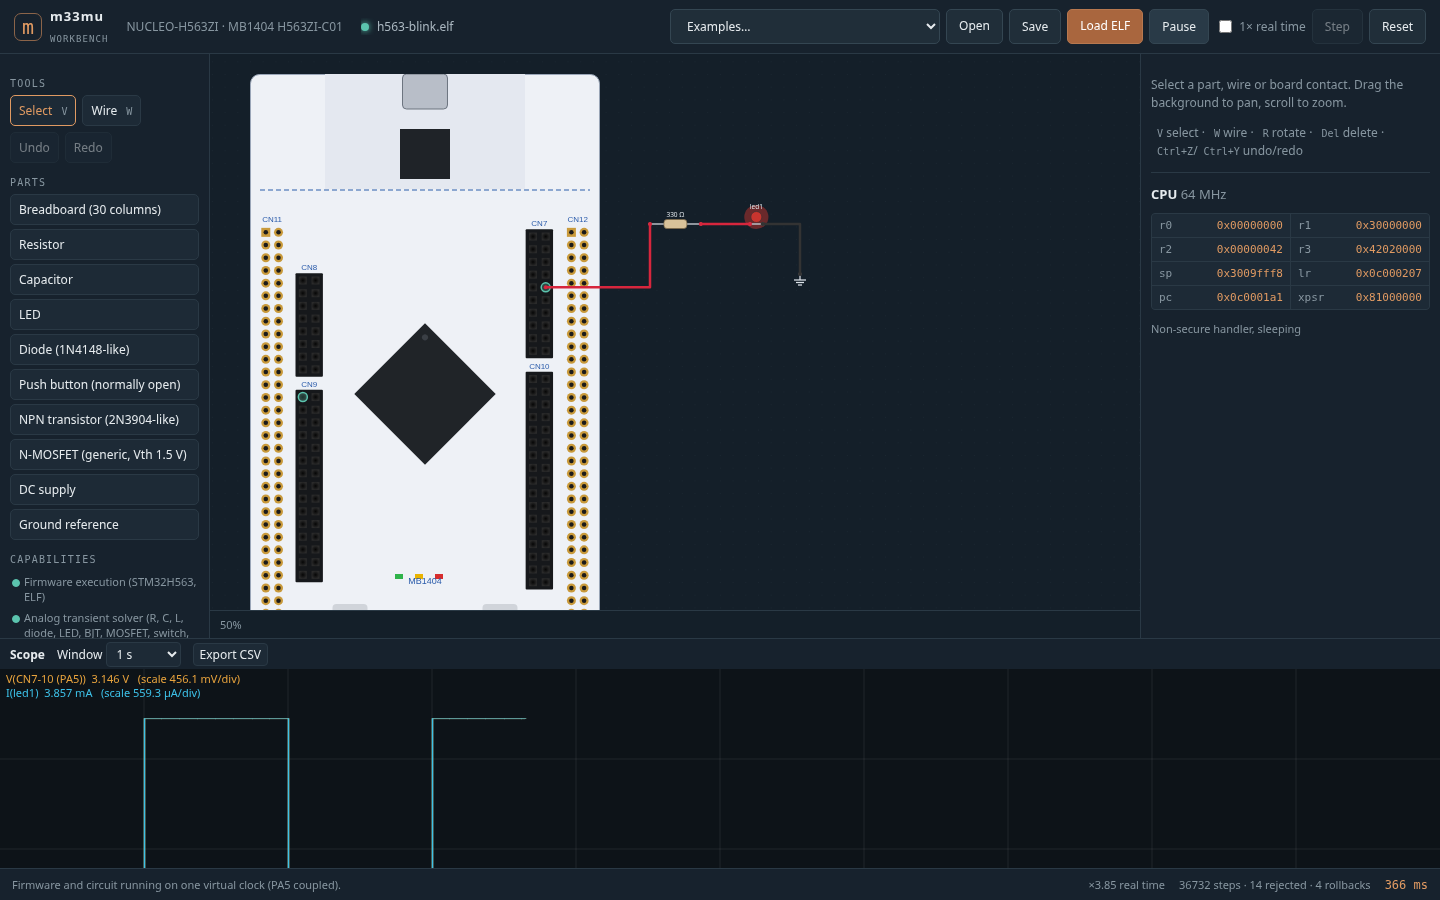
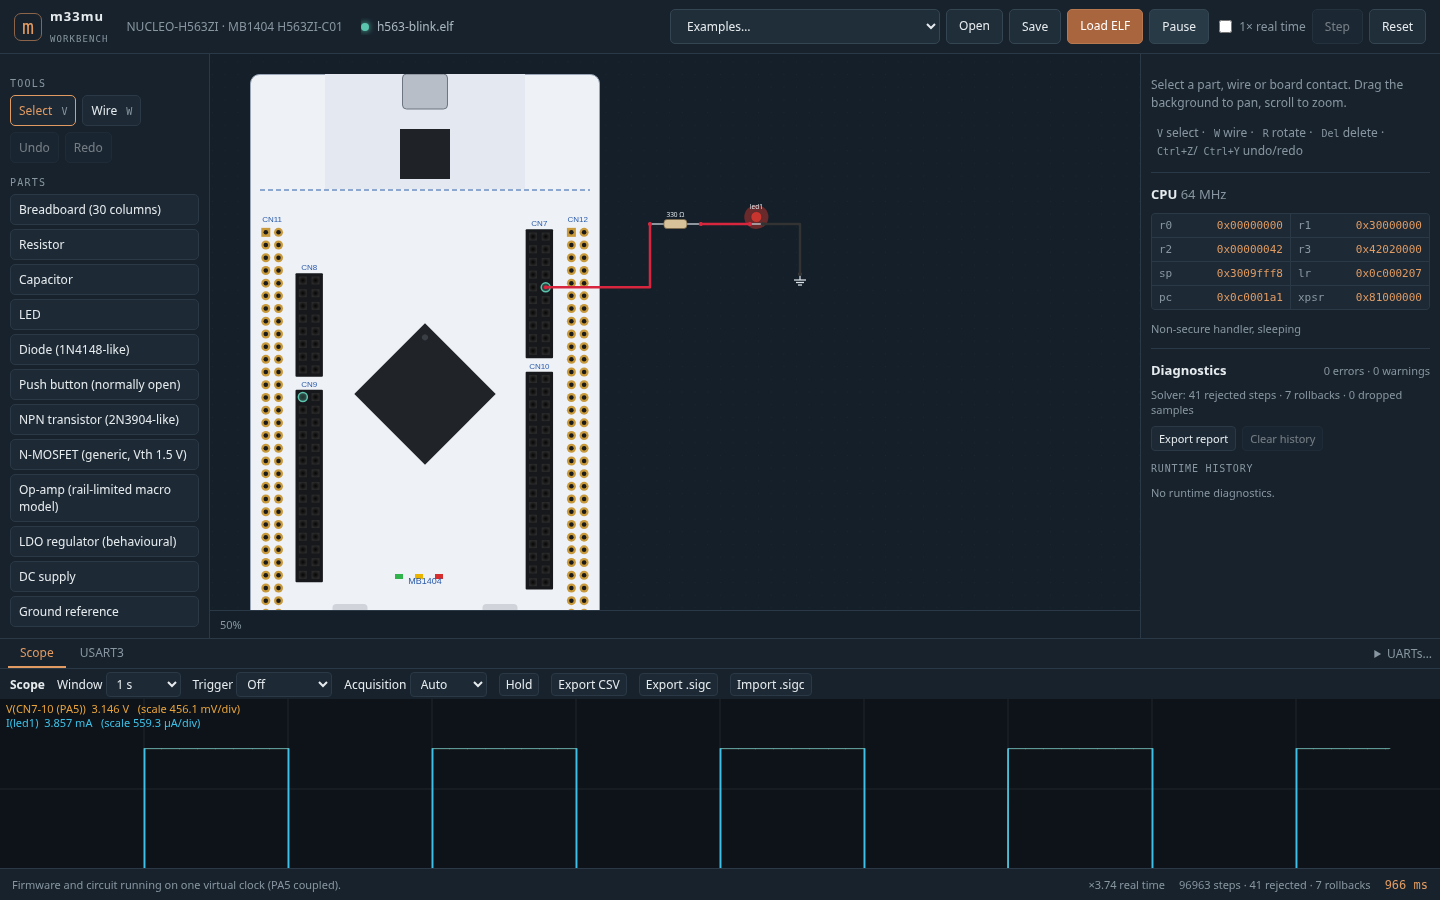
web: UART terminal tabs

diff --git a/src/app.tsx b/src/app.tsx
@@ -4,6 +4,7 @@ import { Inspector, type McuPadInfo, type Observation } from './Inspector.tsx';
 import { DiagnosticsPanel } from './DiagnosticsPanel.tsx';
 import { appendDiagnostic, type DiagnosticEntry, type DiagnosticSeverity, type DiagnosticSource } from './diagnostics.ts';
 import { Scope, ScopeAcquisitionEngine, ScopeBuffer } from './instruments/Scope.tsx';
+import { appendTerminal, Terminal, type UartInfo } from './instruments/Terminal.tsx';
 import { decodeSigc, SIGC_MAX_BYTES, SigcError } from './instruments/sigc.ts';
 import { CATALOG, formatSi, type PartKind, type Rotation } from './project/catalog.ts';
 import { commit, createHistory, redo, replace, undo } from './project/history.ts';
@@ -111,8 +112,34 @@ export function App() {
     setDiagnosticEntries((entries) => appendDiagnostic(entries, { source, severity, code, message, timeNs }));
   }
 
+  const [uarts, setUarts] = useState<UartInfo[]>([]);
+  const [openUarts, setOpenUarts] = useState<string[]>(() => {
+    try { return JSON.parse(localStorage.getItem('m33mu.openUarts') ?? '["USART3"]'); } catch { return ['USART3']; }
+  });
+  const [uartText, setUartText] = useState<Record<number, string>>({});
+  const [uartLost, setUartLost] = useState<Set<number>>(new Set());
+  const [dockTab, setDockTab] = useState<string>('scope');
+  function toggleUart(label: string) {
+    const next = openUarts.includes(label) ? openUarts.filter((l) => l !== label) : [...openUarts, label];
+    setOpenUarts(next);
+    try { localStorage.setItem('m33mu.openUarts', JSON.stringify(next)); } catch { /* per-viewer convenience only */ }
+    if (!next.includes(dockTab)) setDockTab(next.includes(label) ? label : 'scope');
+  }
+  async function sendUart(index: number, text: string) {
+    try {
+      const r = await worker().request<{ accepted: number; dropped: number }>('uartWrite', { index, text });
+      if (r.dropped) setMessage(`UART input queue full: ${r.dropped} bytes dropped`);
+    } catch (err) { setFault(err instanceof Error ? err.message : String(err)); }
+  }
+
   const onEvent = useCallback((e: WorkerEvent) => {
     const p = e.payload;
+    if (e.event === 'uart') {
+      const bytes = p.bytes as Uint8Array;
+      setUartText((old) => ({ ...old, [p.index]: appendTerminal(old[p.index] ?? '', bytes) }));
+      if (p.overflow) setUartLost((old) => new Set(old).add(p.index));
+      return;
+    }
     if (e.event === 'state') {
       setMachine(p);
       if (p.stopped) setRunState('stopped');
@@ -252,6 +279,9 @@ export function App() {
 
   async function loadElf(bytes: Uint8Array, name: string, hash: string) {
     await worker().request('loadFirmware', { bytes });
+    setUartText({}); setUartLost(new Set());
+    const list = await worker().request<{ uarts: UartInfo[] }>('uartList');
+    setUarts(list.uarts);
     setFirmware({ name, hash, bytes });
     setBenchActive(false); setBenchStale(false); setObservation(null); setStats(null);
     scope.current.clear(); setScopeVersion(scope.current.version);
@@ -318,7 +348,7 @@ export function App() {
         if (!benchActive || benchStale) await startBench();
         await worker().request('runUntil', realTime ? { maxRatio: 1 } : {});
         setMessage(compiled.pads.length ? `Firmware and circuit running on one virtual clock (${compiled.pads.join(', ')} coupled).`
-          : 'Analog-only circuit running.');
+          : firmware ? 'Firmware and circuit running on one virtual clock (no MCU pad wired).' : 'Analog-only circuit running.');
       } else {
         await worker().request('run');
         setMessage('Firmware running in bounded worker slices (no circuit attached).');
@@ -602,19 +632,48 @@ export function App() {
             onClear={() => setDiagnosticEntries([])} onExport={exportDiagnostics} />
         </aside>
       </div>
-      <Scope buffer={displayScope} version={heldScope ? displayScope.version : scopeVersion}
-        labels={displayLabels} units={displayUnits} captureKind={heldScope?.kind ?? null} onHold={toggleScopeHold}
-        windowNs={project.instruments.scope.windowNs}
-        trigger={project.instruments.scope.trigger ?? null} acquisition={acquisition}
-        fixedTriggerTime={heldScope?.triggerTime} onAcquisition={setScopeAcquisition}
-        onWindow={(ns) => {
-          const next = { ...project, instruments: { ...project.instruments,
-            scope: { ...project.instruments.scope, windowNs: ns } } };
-          view(next);
-          armScope(next, scope.current.lastTime());
-        }}
-        onTrigger={setScopeTrigger}
-        onExport={exportCsv} onExportSigc={exportSigc} onImportSigc={(file) => void importSigc(file)} />
+      <section className="dock">
+        <nav className="dock-tabs" role="tablist">
+          <button role="tab" aria-selected={dockTab === 'scope'} className={dockTab === 'scope' ? 'active' : ''}
+            onClick={() => setDockTab('scope')}>Scope</button>
+          {uarts.filter((u) => openUarts.includes(u.label)).map((u) => (
+            <button key={u.label} role="tab" aria-selected={dockTab === u.label} data-testid={`tab-${u.label}`}
+              className={dockTab === u.label ? 'active' : ''} onClick={() => setDockTab(u.label)}>
+              {u.label}{(uartText[u.index] ?? '').length > 0 && dockTab !== u.label ? ' •' : ''}
+            </button>
+          ))}
+          <details className="uart-picker">
+            <summary data-testid="uart-picker">UARTs…</summary>
+            <div className="uart-menu">{uarts.length === 0 ? <p className="muted">Load firmware to list the UARTs.</p> : uarts.map((u) => (
+              <label key={u.label}><input type="checkbox" checked={openUarts.includes(u.label)}
+                onChange={() => toggleUart(u.label)} data-testid={`uart-${u.label}`} /> {u.label}
+                <span className="muted"> 0x{u.base.toString(16)}</span></label>
+            ))}</div>
+          </details>
+        </nav>
+        <div className="dock-body" hidden={dockTab !== 'scope'}>
+          <Scope buffer={displayScope} version={heldScope ? displayScope.version : scopeVersion}
+            labels={displayLabels} units={displayUnits} captureKind={heldScope?.kind ?? null} onHold={toggleScopeHold}
+            windowNs={project.instruments.scope.windowNs}
+            trigger={project.instruments.scope.trigger ?? null} acquisition={acquisition}
+            fixedTriggerTime={heldScope?.triggerTime} onAcquisition={setScopeAcquisition}
+            onWindow={(ns) => {
+              const next = { ...project, instruments: { ...project.instruments,
+                scope: { ...project.instruments.scope, windowNs: ns } } };
+              view(next);
+              armScope(next, scope.current.lastTime());
+            }}
+            onTrigger={setScopeTrigger}
+            onExport={exportCsv} onExportSigc={exportSigc} onImportSigc={(file) => void importSigc(file)} />
+        </div>
+        {uarts.filter((u) => openUarts.includes(u.label) && dockTab === u.label).map((u) => (
+          <div className="dock-body" key={u.label}>
+            <Terminal uart={u} text={uartText[u.index] ?? ''} lost={uartLost.has(u.index)}
+              onSend={(text) => void sendUart(u.index, text)}
+              onClear={() => setUartText((old) => ({ ...old, [u.index]: '' }))} />
+          </div>
+        ))}
+      </section>
       <footer className="status">
         <span className={fault ? 'fault' : ''} data-testid="status-message">{fault || message}</span>
         <span className="spacer" />

diff --git a/src/instruments/Terminal.tsx b/src/instruments/Terminal.tsx
@@ -1,0 +1,59 @@
+// Serial terminal for one emulated UART.
+
+import { useEffect, useRef, useState } from 'react';
+
+export type UartInfo = { index: number; label: string; base: number };
+
+/** Terminal scrollback bound, in characters. */
+export const TERMINAL_LIMIT = 200_000;
+
+export function appendTerminal(old: string, bytes: Uint8Array): string {
+  let text = old;
+  for (const b of bytes) {
+    if (b === 0x0d) continue; // CR: lines end on LF
+    if (b === 0x08) { text = text.slice(0, -1); continue; }
+    text += b === 0x0a || b === 0x09 || (b >= 0x20 && b < 0x7f) ? String.fromCharCode(b) : '·';
+  }
+  return text.length > TERMINAL_LIMIT ? text.slice(text.length - TERMINAL_LIMIT) : text;
+}
+
+type Props = {
+  uart: UartInfo;
+  text: string;
+  lost: boolean;
+  onSend(text: string): void;
+  onClear(): void;
+};
+
+export function Terminal({ uart, text, lost, onSend, onClear }: Props) {
+  const [line, setLine] = useState('');
+  const [ending, setEnding] = useState<'\r' | '\n' | '\r\n' | ''>('\r');
+  const out = useRef<HTMLPreElement>(null);
+  useEffect(() => {
+    const el = out.current;
+    if (el) el.scrollTop = el.scrollHeight;
+  }, [text]);
+  return (
+    <section className="terminal" aria-label={`${uart.label} terminal`} data-testid={`terminal-${uart.label}`}>
+      <header>
+        <strong>{uart.label}</strong>
+        <span className="muted">0x{uart.base.toString(16).padStart(8, '0')}</span>
+        {lost && <span className="warning">output overflowed: some bytes were lost</span>}
+        <span className="spacer" />
+        <button type="button" onClick={onClear}>Clear</button>
+      </header>
+      <pre ref={out}>{text}</pre>
+      <form onSubmit={(e) => { e.preventDefault(); onSend(line + ending); setLine(''); }}>
+        <input value={line} onChange={(e) => setLine(e.target.value)} placeholder={`Send to ${uart.label}`}
+          aria-label={`Send to ${uart.label}`} />
+        <select value={ending} onChange={(e) => setEnding(e.target.value as typeof ending)} aria-label="Line ending">
+          <option value={'\r'}>CR</option>
+          <option value={'\n'}>LF</option>
+          <option value={'\r\n'}>CR+LF</option>
+          <option value="">none</option>
+        </select>
+        <button type="submit">Send</button>
+      </form>
+    </section>
+  );
+}

diff --git a/src/style.css b/src/style.css
@@ -130,3 +130,19 @@ kbd { font: 10px ui-monospace, monospace; color: var(--muted); margin-left: 6px;
   .palette, .side { border: 0; }
 }
 .toggle { display: flex; align-items: center; gap: 4px; font-size: 12px; color: var(--muted); white-space: nowrap; }
+.dock { display: grid; grid-template-rows: 30px 1fr; min-height: 0; border-top: 1px solid var(--line); background: var(--panel); }
+.dock-tabs { display: flex; align-items: stretch; gap: 2px; padding: 0 8px; border-bottom: 1px solid var(--line); }
+.dock-tabs > button { background: none; border: 0; border-bottom: 2px solid transparent; padding: 0 12px; font-size: 12px; color: var(--muted); }
+.dock-tabs > button.active { color: var(--accent); border-bottom-color: var(--accent); }
+.uart-picker { margin-left: auto; position: relative; font-size: 12px; align-self: center; }
+.uart-picker summary { cursor: pointer; color: var(--muted); }
+.uart-menu { position: absolute; right: 0; bottom: calc(100% + 6px); z-index: 10; background: var(--panel2); border: 1px solid var(--line); border-radius: 6px; padding: 4px 0; max-height: 60vh; overflow: auto; box-shadow: 0 6px 18px #0008; }
+.uart-menu label, .uart-menu p { display: block; white-space: nowrap; padding: 3px 12px; margin: 0; }
+.dock-body { min-height: 0; display: grid; }
+.dock-body[hidden] { display: none; }
+.dock-body > .scope { border-top: 0; }
+.terminal { display: grid; grid-template-rows: 26px 1fr 30px; min-height: 0; }
+.terminal header, .terminal form { display: flex; align-items: center; gap: 10px; padding: 0 10px; font-size: 12px; }
+.terminal pre { margin: 0; padding: 6px 10px; overflow: auto; background: var(--scope-bg); font: 12px/1.35 ui-monospace, monospace; white-space: pre-wrap; overflow-wrap: anywhere; }
+.terminal input { flex: 1; background: var(--panel2); border: 1px solid var(--line); border-radius: 4px; padding: 3px 6px; font: 12px ui-monospace, monospace; }
+.terminal select, .terminal button { background: var(--panel2); border: 1px solid var(--line); border-radius: 4px; padding: 2px 8px; font-size: 12px; }

diff --git a/docs/current-capabilities.md b/docs/current-capabilities.md
@@ -14,12 +14,13 @@ Reviewed on 2026-10-24 at local `master` (see `git log`; tracker: `p0-progress.m
 | Board | NUCLEO-H563ZI (MB1404 H563ZI-C01) redrawn to scale. **CN7 pin 10 (PA5)** and **CN9 pin 1 (PA6)** are the only electrical contacts; all others are visual locators and the wiring tool refuses them. | `web/boards/nucleo-h563zi-pins.json`, `scripts/validate-web-boards.py` |
 | Editor | Place/move/rotate/delete parts, breadboard strips, wiring with snap and hit-testing, pan/zoom, undo/redo (200 steps), keyboard shortcuts, inspector (parameters, terminal voltages, branch current, pad mode/pull/drive/voltage/current, LED brightness), two-channel scope with cursors, sampled rising/falling threshold trigger, Auto/Normal/Single acquisition and manual hold/release, CSV export and SIGC voltage import/export preview, diagnostics panel with JSON report, v2 project save/open with embedded verified ELF and v1 migration, examples menu. | `web_browser_chromium_test`, scope, SIGC and diagnostics unit fixtures |
 | Examples | H563 LED blink, H563 RC button → EXTI → LED, DC divider, RC switch, NPN LED switch, op-amp gain ×2. | `web/public/examples/`, `examples.test.ts`, demo golden `web/fixtures/demos/golden.json` |
+| UART terminals | Every target UART (13 on the H563) is bound to a session TX ring/RX queue (`mm_web_uart_*`, worker `uartList`/`uartWrite` and `uart` events). The dock offers a UART picker and one terminal tab per selected UART, with line-ending choice and overflow warnings; the selection is remembered per browser. Loaded firmware now runs with any circuit, wired to a pad or not. | `scripts/test-web-uart.mjs` (in `wasm_worker_demos_test`), `web_browser_chromium_test` |
 | Offline | All assets, the worker and WASM are served from the app; the browser test blocks every non-local request. | `web_browser_chromium_test` |
 
 ## Not supported (shown as such in the UI)
 
 - ADC, DAC, PWM/timer outputs and every other alternate function on a pad: an AF-mode pad is high impedance and the bench raises an `unsupported` notice.
-- UART, SPI, I²C; serial console in the browser.
+- SPI and I²C have no pin-level signals: the emulator models them as transactions to emulated devices (SPI flash, TPM, secure elements), so their pads stay high impedance in the circuit. UART bytes are available as terminals (below) but not as electrical TX/RX waveforms.
 - Board contacts other than CN7-10 and CN9-1; the other 14 boards (display assets exist, no reviewed mapping, no browser firmware profile).
 - More than one MCU per bench; more than one emulator session per worker (process-global target state).
 - Op-amp frequency response, slew rate, common-mode range and input offset; regulator line/load transients, thermal and current limits, transformers, junction/gate capacitance, temperature. The available op-amp is a rail-limited macro model, not a device-specific IC.

diff --git a/docs/p0-progress.md b/docs/p0-progress.md
@@ -27,6 +27,7 @@ Validated on this checkout with `cmake -S . -B build -DM33MU_BUILD_TESTS=ON && c
 - [x] **P2 scope acquisition.** Auto retains free-running/latest-edge behavior. Normal waits for a rising/falling threshold edge, captures the pretrigger and posttrigger window, then rearms after the capture; Single freezes the first complete window until Rearm. Edge detection runs on every worker sample batch, independent of UI paint frames, and skips old samples while waiting. Project v2 saves the mode; old v2 files default to Auto. Unit fixtures cover batch-boundary edges, posttrigger completion, repeated Normal captures and Single rearm. `node web/tests/run-unit.mjs`, `npm --prefix web run build`, `/usr/bin/python3 scripts/validate-web-schemas.py` and the Chromium RC switch regression pass. These are sampled display captures; neither mode pauses the MCU. A ring that loses pretrigger samples cannot produce a complete capture.
 - [x] **P2 diagnostics panel.** Current circuit errors/warnings, cumulative solver rejected steps/rollbacks/sample overflow, and a bounded history of worker faults, unsupported pad operations and failed UI actions appear in the side panel. Repeats fold with counts; Clear removes runtime history; JSON export includes project/firmware identity and current metrics. Unit fixtures check folding and bounds. Chromium checks current circuit issues, rejected project and ELF loads, exported reports and Clear. `node web/tests/run-unit.mjs`, `npm --prefix web run build` and Chromium pass. See `diagnostics.md`.
 - [x] **P2 LDO regulator.** Behavioural three-terminal regulator: output follows a smooth min(vset, vin - dropout) through rOut, sources only, draws iq from the input; palette part and worker/project schemas updated. Solver fixture checks regulation under 100 mA load, dropout at 3.0 V input, quiescent current and zero input. No line/load transient, current limit or thermal model.
+- [x] **UART terminals.** Target UART models register in a HAL instance list; the web session attaches a backend per UART (the CLI uses PTYs for the same hook) with an 8 KiB TX ring and 1 KiB RX queue. Worker `uartList`/`uartWrite` and per-slice `uart` events; UI picker plus one terminal tab per selected UART. Fixed: firmware did not run when the circuit had no wired pad. USART3 echo verified in Node/WASM and Chromium; full CTest passes.
 - [ ] Firefox and WebKit runs (only Chromium was available to the test driver).
 - [ ] MB1404 schematic/Gerber cross-check of the measured CN7/CN9 geometry (+/-0.5 mm today).
 - [ ] P2 (M5): regulator transients/current limit and device-specific op-amp behavior, ADC/DAC/PWM coupling (no H563 ADC/timer-output electrical path exists), responsive/high-contrast polish and wider scope features, SIGC-to-live-input binding.
